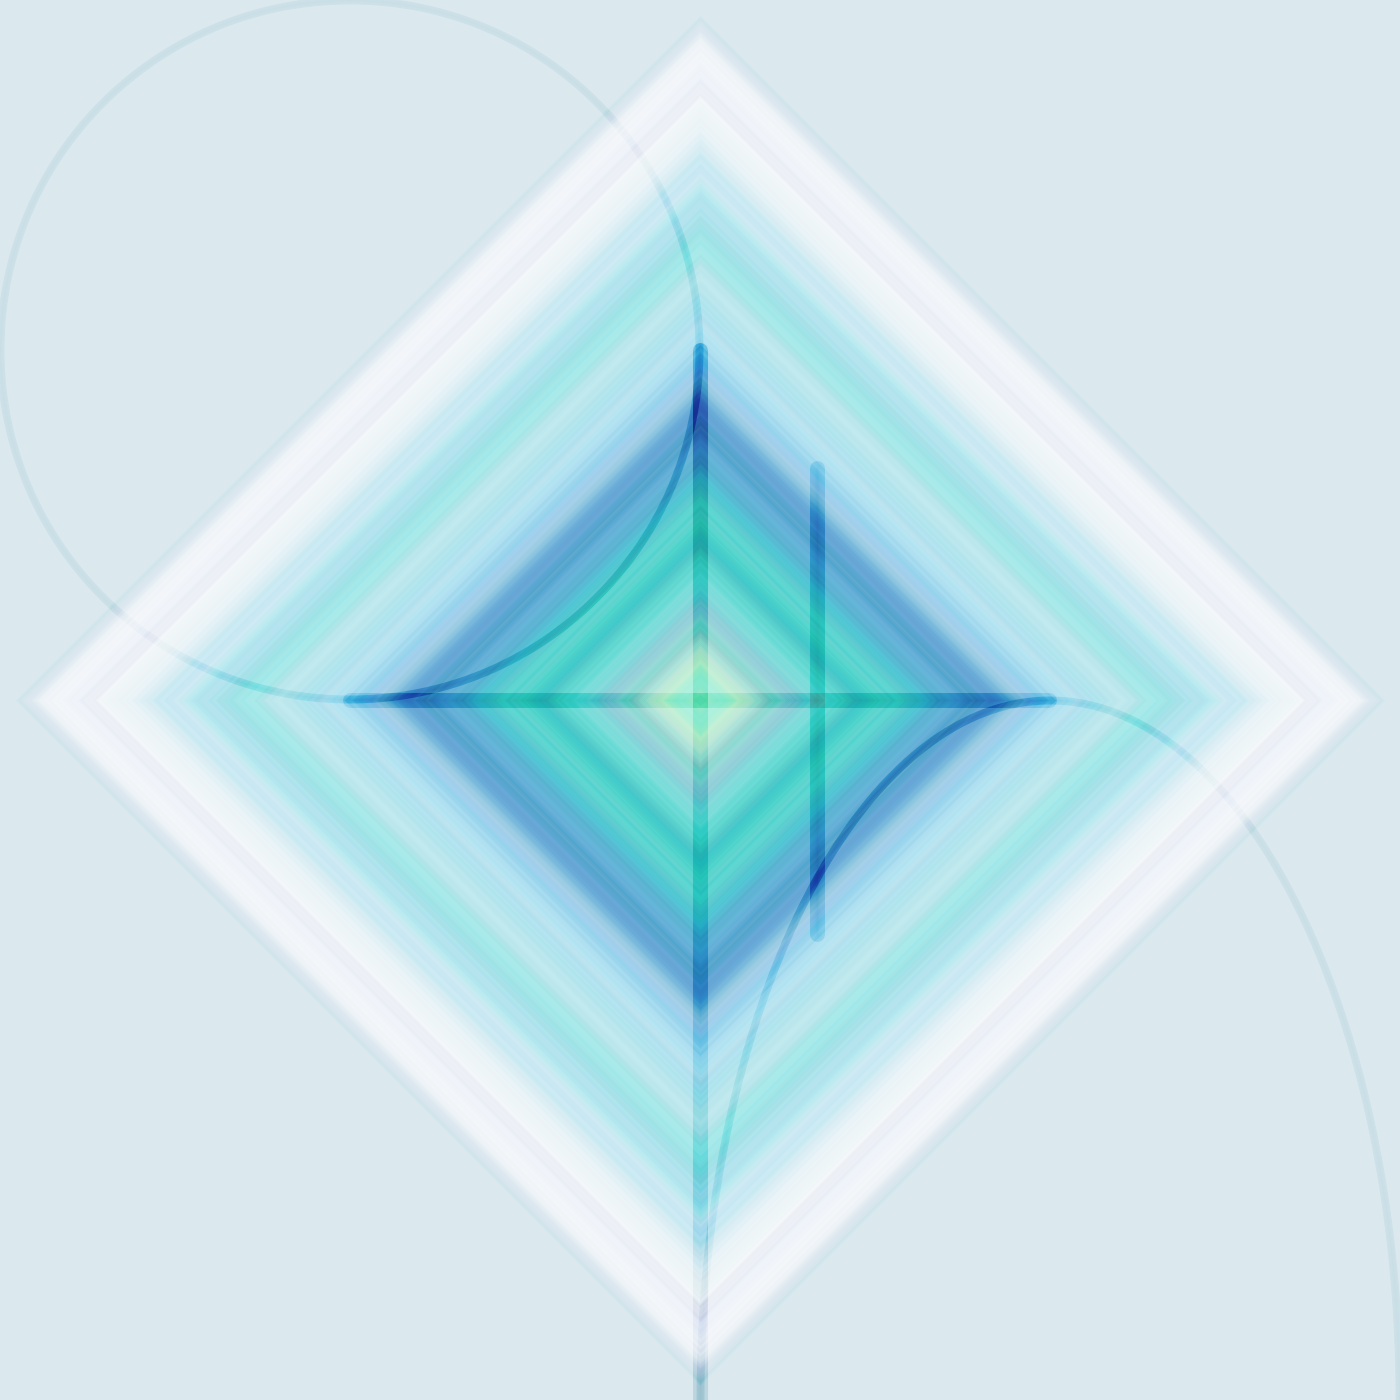
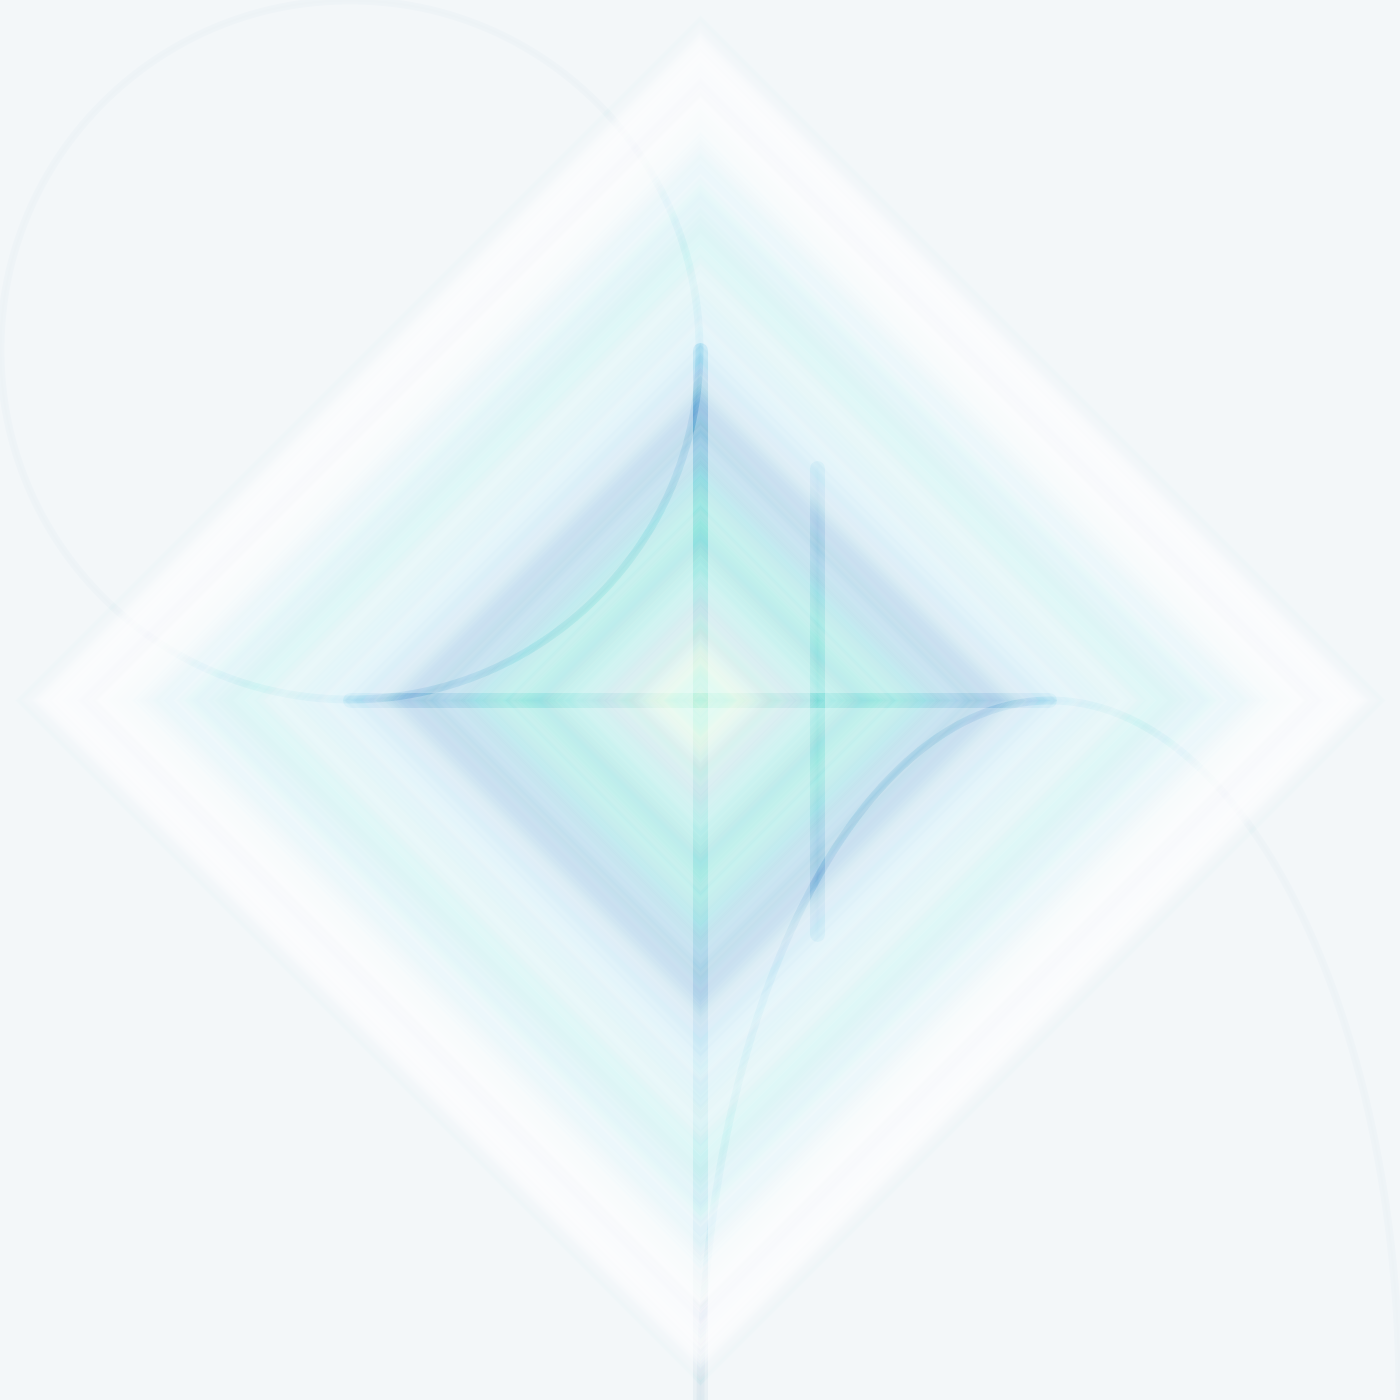
update background image & color

diff --git a/static/main.css b/static/main.css
@@ -31,7 +31,7 @@
 html {
 	overflow-x: hidden;
 	overflow-y: scroll;
-	background-color: var(--greyscale);
+	background-color: white;
 	font-family: "Palatino Linotype", "Book Antiqua", Palatino, serif;
 	font-size: large;
 	word-wrap: break-word;
@@ -49,7 +49,7 @@ body:before {
 	height: 100%;
 	z-index: -10;
 	opacity: 0.35;
-	background-color: var(--greyscale);
+	background-color: white;
 	background: url(images/aph_cloud.png) no-repeat center center;
 	-webkit-background-size: contain;
 	-moz-background-size: contain;
